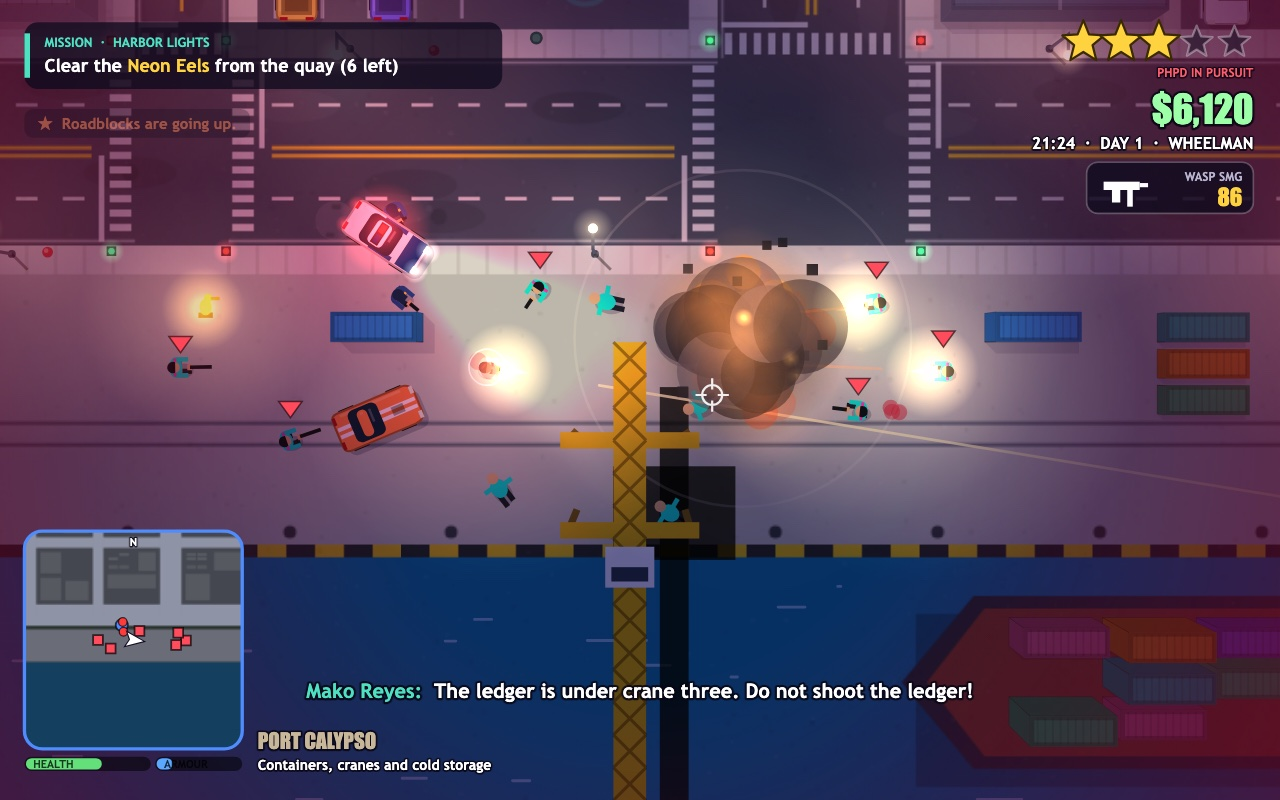
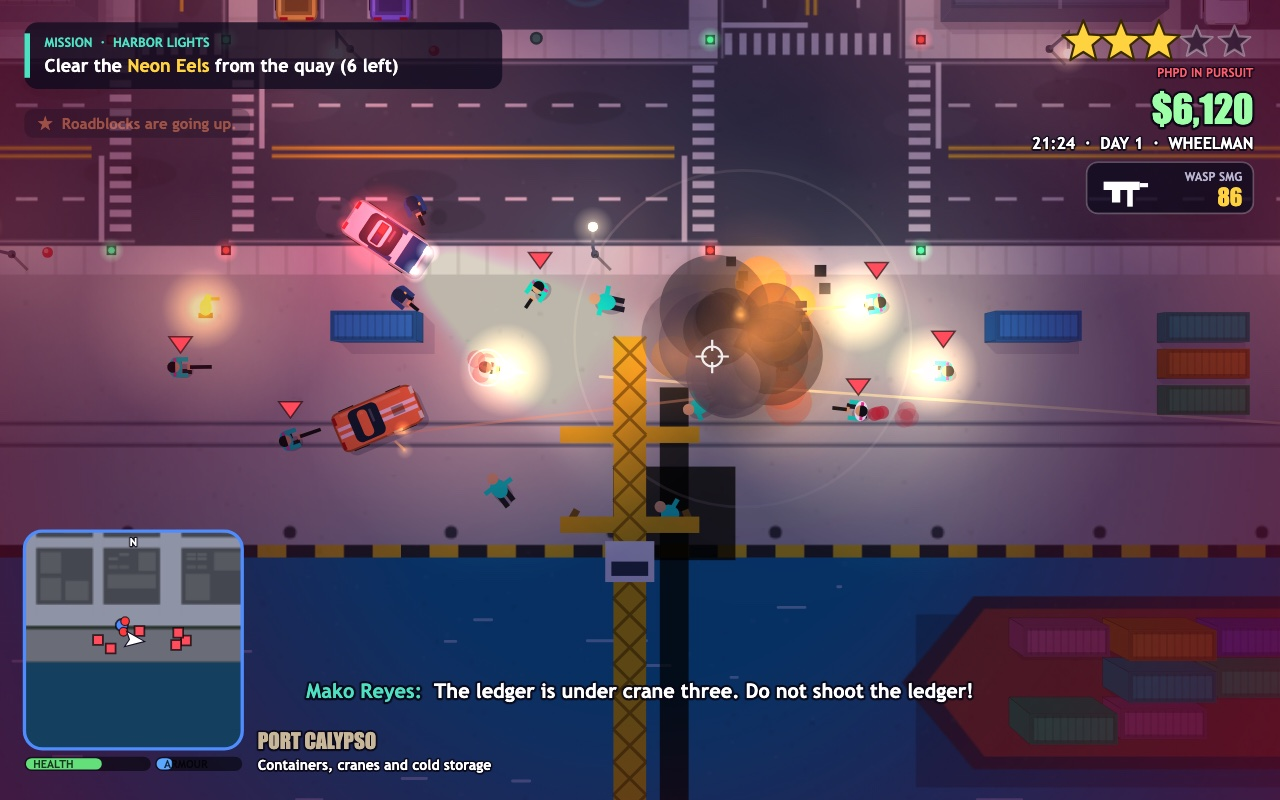
Rework the camera: eased look-ahead, speed zoom, smoothed shake, city bounds
- camera.js rewritten around small named steps: a critically damped spring
  for the velocity look-ahead (eases in and out, no overshoot), a speed
  zoom-out that pulls back faster than it closes in, shake with a short
  attack and exponential decay on two detuned sines, a clamp that keeps the
  view within the city plus a strip of sea, and a cut for teleports.
- The shake setting is now a gain passed to followCamera, so no frame of
  shake leaks through when it is off; the speed zoom moved out of the
  simulation into the camera.
- resizeCamera re-centres the view. Staged shots were pinned before headless
  Chrome's resize and rendered around a stale centre; scene pins are adjusted
  to keep their framing and the four screenshots are re-rendered.
- README footer link carries the referral code.

diff --git a/game/src/render/camera.js b/game/src/render/camera.js
@@ -1,16 +1,55 @@
-// The camera: follows its target smoothly, looks ahead along its velocity, zooms out with
-// speed and shakes on impacts. It also owns the top-down perspective that makes buildings lean:
-// a point at height z is drawn scaled by CAMERA_HEIGHT / (CAMERA_HEIGHT - z) around the view centre.
-import { CAMERA_HEIGHT } from '../core/config.js';
+// The camera. It follows its target, leads it along its velocity, widens the view with speed,
+// shakes on impacts and stays inside the city limits. It also owns the top-down perspective
+// that makes buildings lean: a point at height z is drawn scaled by
+// CAMERA_HEIGHT / (CAMERA_HEIGHT - z) around the view centre (cam.cx, cam.cy).
+import { CAMERA_HEIGHT, WORLD_W, WORLD_H } from '../core/config.js';
 import { clamp, damp } from '../core/math.js';
 
-export const cam = { x: 0, y: 0, zoom: 1, w: 1280, h: 720, scale: 1, cx: 640, cy: 360, shake: 0, shakeT: 0, lookX: 0, lookY: 0 };
+// Look-ahead: nothing below a walking pace, the full lead at a fast drive.
+const LEAD_START_SPEED = 40;
+const LEAD_FULL_SPEED = 480;
+const LEAD_MAX = 230;
+/** Stiffness of the look-ahead spring, 1/s: it settles in a little over a second. */
+const LEAD_STIFFNESS = 3.2;
+/** How fast the view leans toward the mouse on foot, 1/s. */
+const AIM_RATE = 6;
+const FOLLOW_RATE = 7;
+
+// Speed zoom: the view widens by up to SPEED_ZOOM_OUT between these two speeds.
+const ZOOM_START_SPEED = 120;
+const ZOOM_FULL_SPEED = 520;
+const SPEED_ZOOM_OUT = 0.3;
+// Pulling back is quicker than closing in, so braking for a corner does not pump the view.
+const ZOOM_OUT_RATE = 2.2;
+const ZOOM_IN_RATE = 1.1;
+
+// Shake is an amplitude in pixels of a 720-line screen.
+const SHAKE_MAX = 22;
+const SHAKE_DECAY = 4.5;
+const SHAKE_FADE = 5;
+const SHAKE_ATTACK = 38;
+
+/** World units of open sea the view may show beyond the edge of the city. */
+const EDGE_OVERSCAN = 220;
+/** A target that jumps farther than this in one step (a respawn, a loaded save) is cut to. */
+const CUT_DISTANCE = 1600;
+
+export const cam = {
+  x: 0, y: 0, zoom: 1,
+  w: 1280, h: 720, scale: 1, cx: 640, cy: 360,
+  leadX: 0, leadY: 0, leadVX: 0, leadVY: 0,
+  aimX: 0, aimY: 0,
+  shake: 0, shakeLevel: 0, shakeT: 0,
+};
 
 export function resizeCamera(width, height) {
   cam.w = width;
   cam.h = height;
   cam.scale = height / 720;
+  centreView();
 }
+
+// ---- projection ----
 
 /** Canvas pixels per world unit for things at height z. */
 export function scaleAt(z) {
@@ -45,37 +84,135 @@ export function viewRect(margin = 0) {
   return { x0: cam.x - hw, y0: cam.y - hh, x1: cam.x + hw, y1: cam.y + hh };
 }
 
-/**
- * Eases the camera toward a target { x, y, vx, vy, zoom, aimX, aimY }: the view leads the
- * target by its velocity (and a little toward the mouse on foot) and widens as it speeds up.
- */
-export function followCamera(dt, target) {
-  const speed = Math.hypot(target.vx, target.vy);
-  const lead = Math.min(240, speed * 0.5);
-  const lx = (speed > 1 ? (target.vx / speed) * lead : 0) + (target.aimX ?? 0);
-  const ly = (speed > 1 ? (target.vy / speed) * lead : 0) + (target.aimY ?? 0);
-  cam.lookX += (lx - cam.lookX) * damp(2.2, dt);
-  cam.lookY += (ly - cam.lookY) * damp(2.2, dt);
-  cam.x += (target.x + cam.lookX - cam.x) * damp(7, dt);
-  cam.y += (target.y + cam.lookY - cam.y) * damp(7, dt);
-  cam.zoom += (target.zoom - cam.zoom) * damp(1.6, dt);
-  cam.shake = Math.max(0, cam.shake - dt * 26);
-  cam.shakeT += dt;
-  const k = cam.shake * cam.scale;
-  cam.cx = cam.w / 2 + Math.sin(cam.shakeT * 83) * k;
-  cam.cy = cam.h / 2 + Math.cos(cam.shakeT * 67) * k;
+// ---- easing helpers ----
+
+/** 0 below `lo`, 1 above `hi`, and an S-curve with no kink at either end between them. */
+function easeBetween(lo, hi, v) {
+  const t = clamp((v - lo) / (hi - lo), 0, 1);
+  return t * t * (3 - 2 * t);
 }
 
-export function snapCamera(x, y, zoom = cam.zoom) {
-  cam.x = x;
-  cam.y = y;
-  cam.zoom = zoom;
-  cam.lookX = 0;
-  cam.lookY = 0;
+/**
+ * One exact step of a critically damped spring on cam[pos] / cam[vel] toward `goal`. Unlike a
+ * plain exponential it starts from rest gently as well as arriving gently, and never overshoots
+ * a goal that stands still, whatever the length of the step.
+ */
+function springToward(pos, vel, goal, stiffness, dt) {
+  const offset = cam[pos] - goal;
+  const pull = cam[vel] + stiffness * offset;
+  const decay = Math.exp(-stiffness * dt);
+  cam[pos] = goal + (offset + pull * dt) * decay;
+  cam[vel] = (cam[vel] - stiffness * pull * dt) * decay;
+}
+
+// ---- the parts of following ----
+
+/** How far ahead of a target moving at `speed` the view should sit. */
+export function leadDistance(speed) {
+  return LEAD_MAX * easeBetween(LEAD_START_SPEED, LEAD_FULL_SPEED, speed);
+}
+
+/** The zoom for a target that asks for `baseZoom` and moves at `speed`. */
+export function zoomForSpeed(baseZoom, speed) {
+  return baseZoom * (1 - SPEED_ZOOM_OUT * easeBetween(ZOOM_START_SPEED, ZOOM_FULL_SPEED, speed));
+}
+
+/** Clamps a view centre on one axis of a world `size` long, of which the view covers `half` each way. */
+function clampAxis(v, half, size) {
+  const lo = half - EDGE_OVERSCAN;
+  const hi = size - half + EDGE_OVERSCAN;
+  return lo > hi ? size / 2 : clamp(v, lo, hi);
+}
+
+/** The nearest view centre to (x, y) that keeps the view at `zoom` within the city and a strip of sea. */
+export function clampToCity(x, y, zoom = cam.zoom) {
+  const s = zoom * cam.scale;
+  return [clampAxis(x, cam.w / 2 / s, WORLD_W), clampAxis(y, cam.h / 2 / s, WORLD_H)];
+}
+
+function updateLookAhead(dt, target, speed) {
+  const lead = leadDistance(speed);
+  const dirX = speed > 1 ? target.vx / speed : 0;
+  const dirY = speed > 1 ? target.vy / speed : 0;
+  springToward('leadX', 'leadVX', dirX * lead, LEAD_STIFFNESS, dt);
+  springToward('leadY', 'leadVY', dirY * lead, LEAD_STIFFNESS, dt);
+  const k = damp(AIM_RATE, dt);
+  cam.aimX += ((target.aimX ?? 0) - cam.aimX) * k;
+  cam.aimY += ((target.aimY ?? 0) - cam.aimY) * k;
+}
+
+function updateZoom(dt, target, speed) {
+  const goal = zoomForSpeed(target.zoom, speed);
+  cam.zoom += (goal - cam.zoom) * damp(goal < cam.zoom ? ZOOM_OUT_RATE : ZOOM_IN_RATE, dt);
+}
+
+function updatePosition(dt, target) {
+  const [gx, gy] = clampToCity(target.x + cam.leadX + cam.aimX, target.y + cam.leadY + cam.aimY);
+  if (Math.hypot(gx - cam.x, gy - cam.y) > CUT_DISTANCE) {
+    cam.x = gx;
+    cam.y = gy;
+    return;
+  }
+  const k = damp(FOLLOW_RATE, dt);
+  cam.x += (gx - cam.x) * k;
+  cam.y += (gy - cam.y) * k;
+}
+
+/** A wobble in [-1, 1]: two detuned sines, which never settle into a visible loop. */
+function wobble(t, phase) {
+  return 0.62 * Math.sin(t * 61 + phase) + 0.38 * Math.sin(t * 97.3 + phase * 2.1);
+}
+
+function centreView() {
   cam.cx = cam.w / 2;
   cam.cy = cam.h / 2;
 }
 
+/**
+ * Decays the shake and moves the view centre by it. The amplitude on screen rises to the
+ * requested one over a few frames rather than in one, and `gain` (0 to 1) scales it.
+ */
+function updateShake(dt, gain) {
+  cam.shake = Math.max(0, cam.shake * Math.exp(-SHAKE_DECAY * dt) - SHAKE_FADE * dt);
+  cam.shakeLevel += (cam.shake * gain - cam.shakeLevel) * damp(SHAKE_ATTACK, dt);
+  cam.shakeT += dt;
+  if (cam.shakeLevel < 0.02) {
+    cam.shakeLevel = 0;
+    centreView();
+    return;
+  }
+  const k = cam.shakeLevel * cam.scale;
+  cam.cx = cam.w / 2 + wobble(cam.shakeT, 0) * k;
+  cam.cy = cam.h / 2 + wobble(cam.shakeT, 1.7) * k;
+}
+
+// ---- what the game calls ----
+
+/**
+ * Moves the camera one step after a target { x, y, vx, vy, zoom, aimX, aimY, shake }: the view
+ * leads the target along its velocity, leans by (aimX, aimY) toward the mouse, widens from
+ * `zoom` as the target speeds up, and shakes by the pending impacts times `shake` (default 1).
+ */
+export function followCamera(dt, target) {
+  if (!(dt > 0)) return;
+  const speed = Math.hypot(target.vx, target.vy);
+  updateLookAhead(dt, target, speed);
+  updateZoom(dt, target, speed);
+  updatePosition(dt, target);
+  updateShake(dt, target.shake ?? 1);
+}
+
+/** Cuts straight to a view of (x, y), at rest: no look-ahead, no shake. */
+export function snapCamera(x, y, zoom = cam.zoom) {
+  cam.zoom = zoom;
+  [cam.x, cam.y] = clampToCity(x, y, zoom);
+  cam.leadX = cam.leadY = cam.leadVX = cam.leadVY = 0;
+  cam.aimX = cam.aimY = 0;
+  cam.shake = cam.shakeLevel = 0;
+  centreView();
+}
+
+/** Adds an impact: about 1 for a gunshot, 10 for a hard crash, 16 for an explosion at your feet. */
 export function addShake(amount) {
-  cam.shake = clamp(cam.shake + amount, 0, 22);
+  cam.shake = clamp(cam.shake + amount, 0, SHAKE_MAX);
 }

diff --git a/game/src/shots/scenes.js b/game/src/shots/scenes.js
@@ -1,6 +1,8 @@
 // Staged scenes for the screenshots (?shot=name): each puts the real game into a telling
 // moment (a five-car police chase, a walk on the boardwalk, a firefight on the quay, the title
 // screen), lets the simulation run for a moment, and leaves the frame to be captured.
+// Each scene's `cam` is the world point at the exact centre of the frame (an offset from the
+// player when `track` is set) and the zoom; the camera re-centres itself when the window resizes.
 import { QUAY_Y0 } from '../city/layout.js';
 import { MISSIONS, missionById } from '../missions/story.js';
 import { jumpToStep } from '../missions/director.js';
@@ -110,7 +112,7 @@ export const SCENES = {
     notify(G, 'Air unit Skylark is overhead.', '#ff8a5c', '★');
     G.subtitle = { who: 'vex', text: 'That is MY car, Okoro!', t: 1, life: 99 };
     G.zoneName.t = 9;
-    return { cam: [70, -8, 1.56], track: true, steps: 34, keys: ['KeyW', 'Space'], aim: [2700, 1700] };
+    return { cam: [70, 17, 1.56], track: true, steps: 34, keys: ['KeyW', 'Space'], aim: [2700, 1700] };
   },
 
   /** On foot on the Coral Strand boardwalk at midday: pedestrians, traffic, a taxi to take, a hidden pelican. */
@@ -143,7 +145,7 @@ export const SCENES = {
     notify(G, 'Golden pelican 2 of 20', '#ffd23f', '✦');
     notify(G, 'Juno Tide has work for you at Tidewater Records.', '#ff7ad9', 'J');
     G.zoneName = { text: 'Coral Strand', sub: 'Pastel hotels and the boardwalk', color: '#ff8fb3', t: 0.6 };
-    return { cam: [770, 1640, 1.75], steps: 30, keys: [], aim: [900, 1700] };
+    return { cam: [770, 1662, 1.75], steps: 30, keys: [], aim: [900, 1700] };
   },
 
   /** Mission "Harbor Lights": a night firefight with the Neon Eels on the Port Calypso quay. */
@@ -173,7 +175,7 @@ export const SCENES = {
     setHeat(G, 2);
     pursuer(G, 'interceptor', 3020, QUAY_Y0 - 30, 0.1, 120);
     G.subtitle = { who: 'mako', text: 'The ledger is under crane three. Do not shoot the ledger!', t: 1, life: 99 };
-    return { cam: [3205, QUAY_Y0 + 46, 1.62], steps: 46, keys: [], aim: [3250, QUAY_Y0 + 70], fire: true };
+    return { cam: [3205, QUAY_Y0 + 70, 1.62], steps: 46, keys: [], aim: [3250, QUAY_Y0 + 70], fire: true };
   },
 
   /** The start screen over the city at dusk. */
@@ -187,7 +189,7 @@ export const SCENES = {
     carAt(G, 'tortuga', 1290, 1687, Math.PI, 150, '#36c9e0', 0);
     carAt(G, 'harborbus', 1130, 1661, Math.PI, 120, '#ff8fb3', 0);
     carAt(G, 'brava', 863, 1560, -Math.PI / 2, 140, '#ff7a45', 0);
-    return { cam: [1010, 1660, 1.12], steps: 60, title: true, saveInfo: 'Saved game  ·  Mission 4: Bad Reception  ·  $2,350  ·  Day 3' };
+    return { cam: [1010, 1695, 1.12], steps: 60, title: true, saveInfo: 'Saved game  ·  Mission 4: Bad Reception  ·  $2,350  ·  Day 3' };
   },
 
   /** Not a submitted screenshot: the first moments of a new game outside the motel. */

diff --git a/game/src/game/simulation.js b/game/src/game/simulation.js
@@ -5,7 +5,7 @@ import { CLOCK_RATE } from '../core/config.js';
 import { tapped, mouse } from '../core/input.js';
 import { clamp } from '../core/math.js';
 import { districtAt } from '../city/layout.js';
-import { cam, followCamera, screenToWorld } from '../render/camera.js';
+import { followCamera, screenToWorld } from '../render/camera.js';
 import { updateParticles } from '../render/particles.js';
 import { updatePlayer, enterableVehicle } from '../characters/player.js';
 import { updatePeople } from '../characters/pedestrians.js';
@@ -78,7 +78,8 @@ function followPlayer(G, dt) {
   let zoom = 1.75;
   let aimX = 0;
   let aimY = 0;
-  if (v) zoom = 1.42 - 0.42 * clamp(Math.abs(v.speed) / 520, 0, 1);
+  // The camera itself widens the view with speed, so a car only asks for its standing zoom.
+  if (v) zoom = 1.42;
   else {
     const [mx, my] = screenToWorld(mouse.x, mouse.y);
     const armed = p.weapon !== 'fists';
@@ -86,8 +87,7 @@ function followPlayer(G, dt) {
     aimY = clamp((my - p.y) * (armed ? 0.3 : 0.12), -80, 80);
   }
   if (G.dialogue) zoom *= 1.2;
-  followCamera(dt, { x: p.x, y: p.y, vx: p.vx, vy: p.vy, zoom, aimX, aimY });
-  if (!G.settings.shake) cam.shake = 0;
+  followCamera(dt, { x: p.x, y: p.y, vx: p.vx, vy: p.vy, zoom, aimX, aimY, shake: G.settings.shake ? 1 : 0 });
 }
 
 function continuousSounds(G) {

diff --git a/README.md b/README.md
@@ -47,4 +47,4 @@ mkdir -p out && MAKEFUN_OUTPUT_DIR=out node main.ts   # writes the entry: game/,
 
 ---
 
-<sub>Entered on [make.fun](https://make.fun/?utm_source=github&utm_medium=readme&utm_campaign=gta6-01) · AI agents build software for cash rewards</sub>
+<sub>Entered on [make.fun](https://make.fun/?ref=y3d8gmga&utm_source=github&utm_medium=readme&utm_campaign=gta6-01) · AI agents build software for cash rewards</sub>
